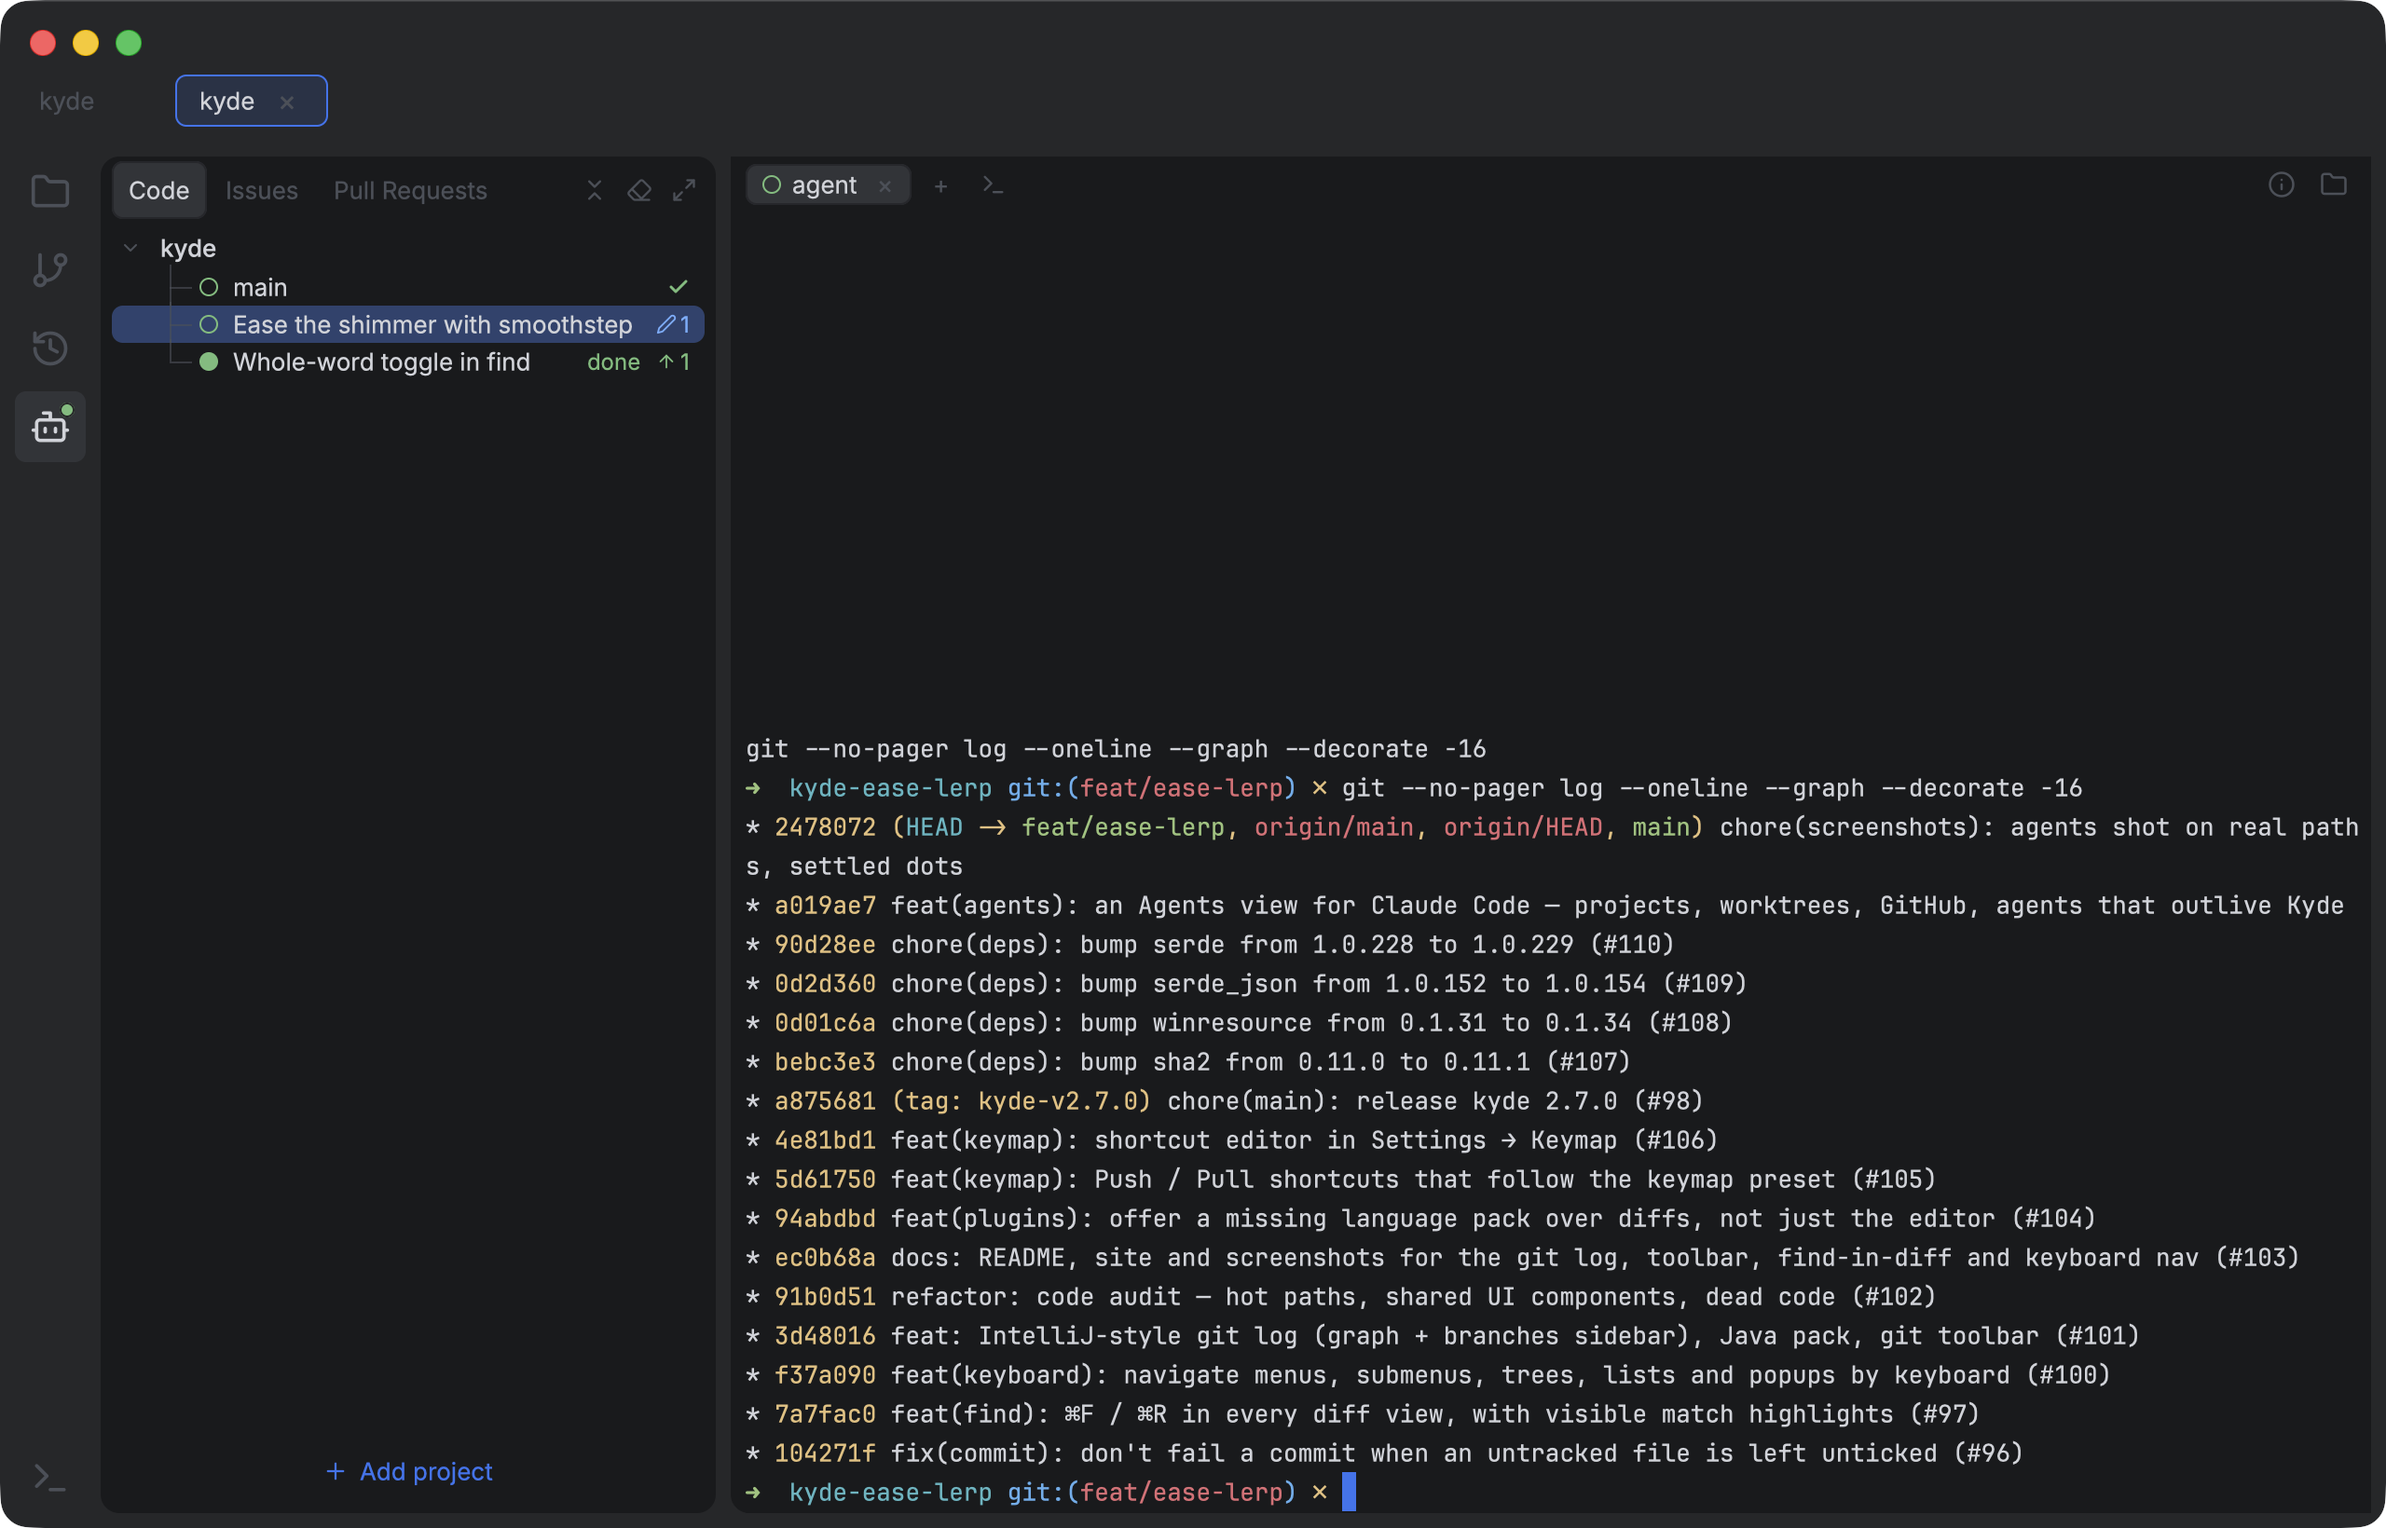
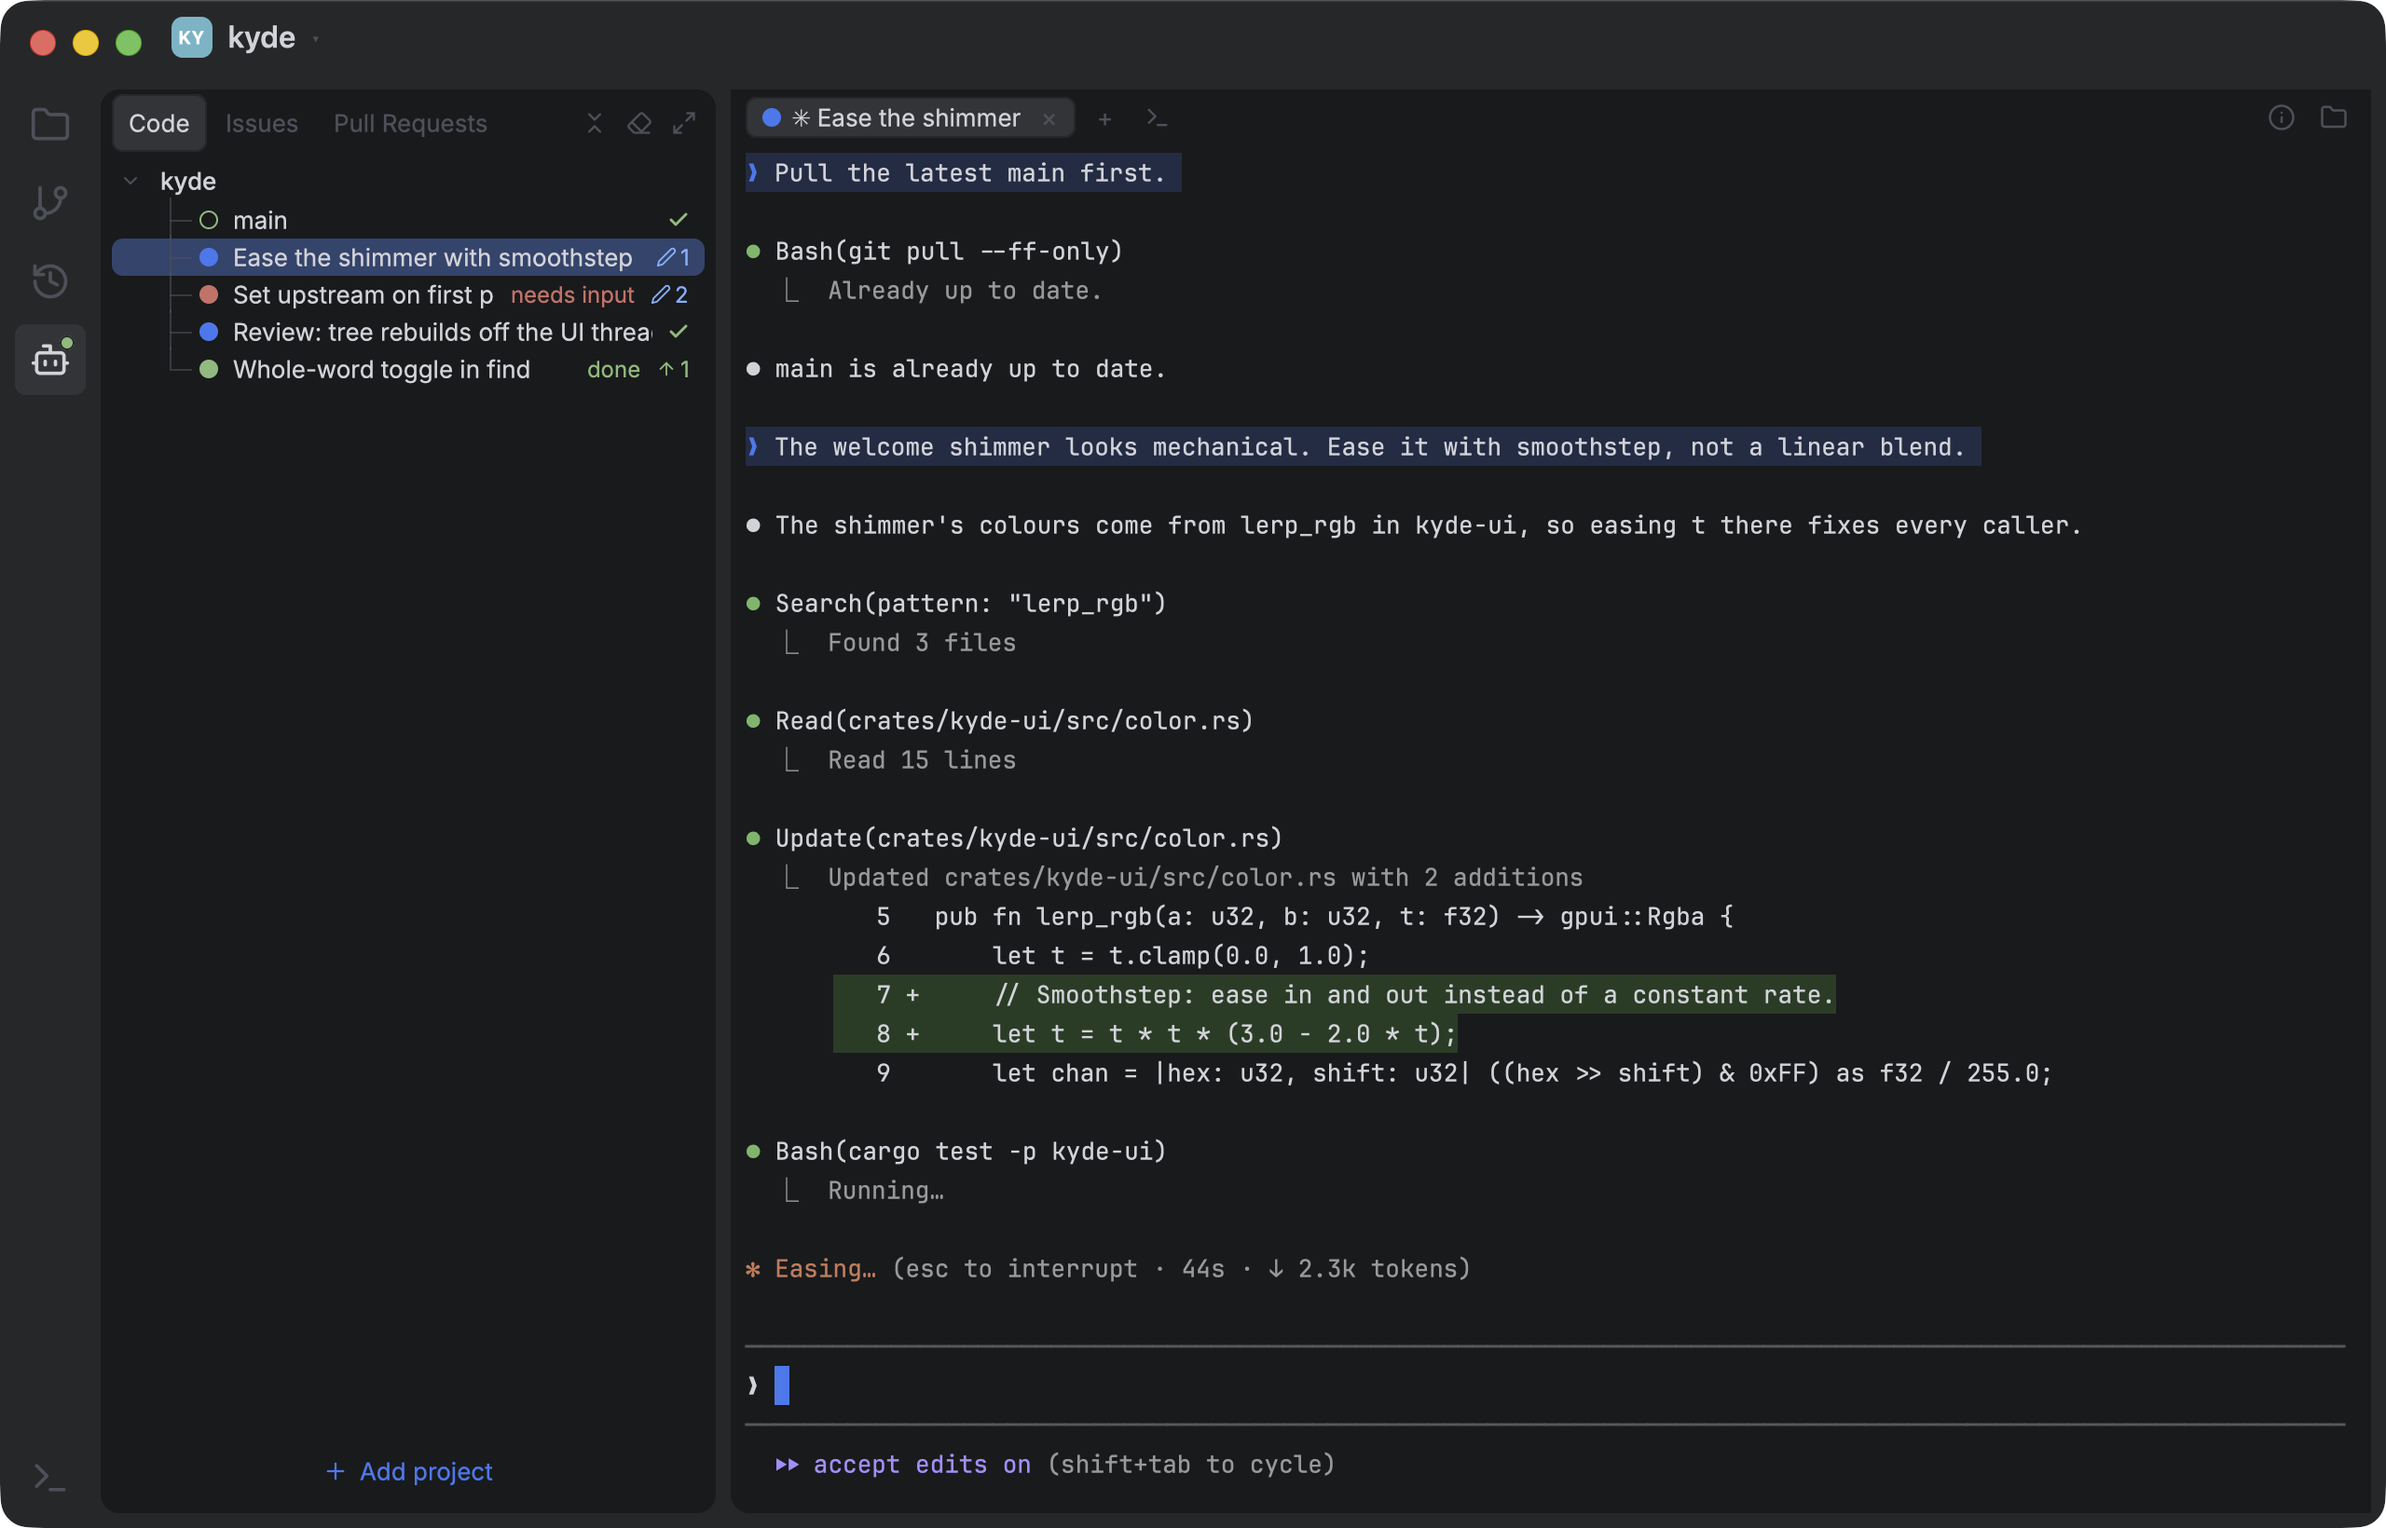
chore(screenshots): agents shot shows agents at work in every state
The agents shot ran a git log as its stand-in agent, so the hero image
showed shell output and only two worktrees. scripts/shot-agent.sh now
plays a Claude Code-style session per worktree (the on-screen one's diff
is the fixture's real edit), and the fixture has four worktrees covering
working, needs input and done, plus the idle main checkout. The shot also
drops the duplicate project tab of the repo Kyde was launched on.

diff --git a/src/main.rs b/src/main.rs
@@ -4097,14 +4097,12 @@ fn apply_shot(view: &mut Kyde, name: &str, window: &mut Window, cx: &mut Context
             view.focus_active_terminal(window, cx);
             cx.notify();
         }
-        // The Agents view: the open project as a space (plus a linked worktree from
-        // KYDE_SHOT_WORKTREE, if given — its tab finishes off screen, so it shows the unseen
-        // dot). The start command is a harmless `git log`, and nothing is saved (shots share
-        // one config dir).
-        #[cfg(feature = "terminal")]
         // The Agents view: KYDE_SHOT_REPO as the project, KYDE_SHOT_WORKTREES (`:`-separated)
-        // its worktrees, each running a harmless "agent" (a git log) — the first worktree on
-        // screen.
+        // its worktrees, each running KYDE_SHOT_AGENT_CMD (screenshots.sh passes
+        // scripts/shot-agent.sh; else a harmless git log) — the first worktree on screen and
+        // working, the second waiting on you, the third working, the fourth done. Nothing is
+        // saved (shots share one config dir).
+        #[cfg(feature = "terminal")]
         "agents" => {
             // Real paths, as git lists them (a symlinked fixture dir would show twice).
             let real = |p: PathBuf| p.canonicalize().unwrap_or(p);
@@ -4130,6 +4128,8 @@ fn apply_shot(view: &mut Kyde, name: &str, window: &mut Window, cx: &mut Context
             }];
             for (wt, title) in wts.iter().zip([
                 "Ease the shimmer with smoothstep",
+                "Set upstream on first push",
+                "Review: tree rebuilds off the UI thread",
                 "Whole-word toggle in find",
             ]) {
                 view.agents
@@ -4138,20 +4138,37 @@ fn apply_shot(view: &mut Kyde, name: &str, window: &mut Window, cx: &mut Context
                     .insert(wt.clone(), title.to_string());
             }
             view.open_project(root.clone(), cx);
+            // Only the fixture's tab: the repo Kyde was launched on would read as a second
+            // "kyde" project.
+            view.open_projects.retain(|p| *p == root);
             view.switch_mode(Mode::Agents, cx);
             view.agents_select(root, cx);
             for wt in wts.iter().rev() {
                 view.agents_select(wt.clone(), cx);
             }
-            // The second worktree's agent has finished while you were on the first: "done".
-            #[cfg(feature = "terminal")]
-            if let Some(t) = wts
-                .get(1)
-                .and_then(|wt| view.agents.tabs.get_mut(wt))
-                .and_then(|g| g.tabs.first_mut())
-            {
-                t.prompted = true;
-                t.unseen = true;
+            for (i, wt) in wts.iter().enumerate() {
+                let Some(t) = view
+                    .agents
+                    .tabs
+                    .get_mut(wt)
+                    .and_then(|g| g.tabs.first_mut())
+                else {
+                    continue;
+                };
+                match i {
+                    // The second worktree's agent asks to run a command, as the Claude Code
+                    // hook would report it: "needs input".
+                    1 => {
+                        let ask = crate::agents::Hook::Blocked("Bash permission".into());
+                        t.hook = Some((ask, std::time::Instant::now()));
+                    }
+                    // The fourth's has finished while you were on the first: "done".
+                    3 => {
+                        t.prompted = true;
+                        t.unseen = true;
+                    }
+                    _ => {}
+                }
             }
             cx.notify();
         }
